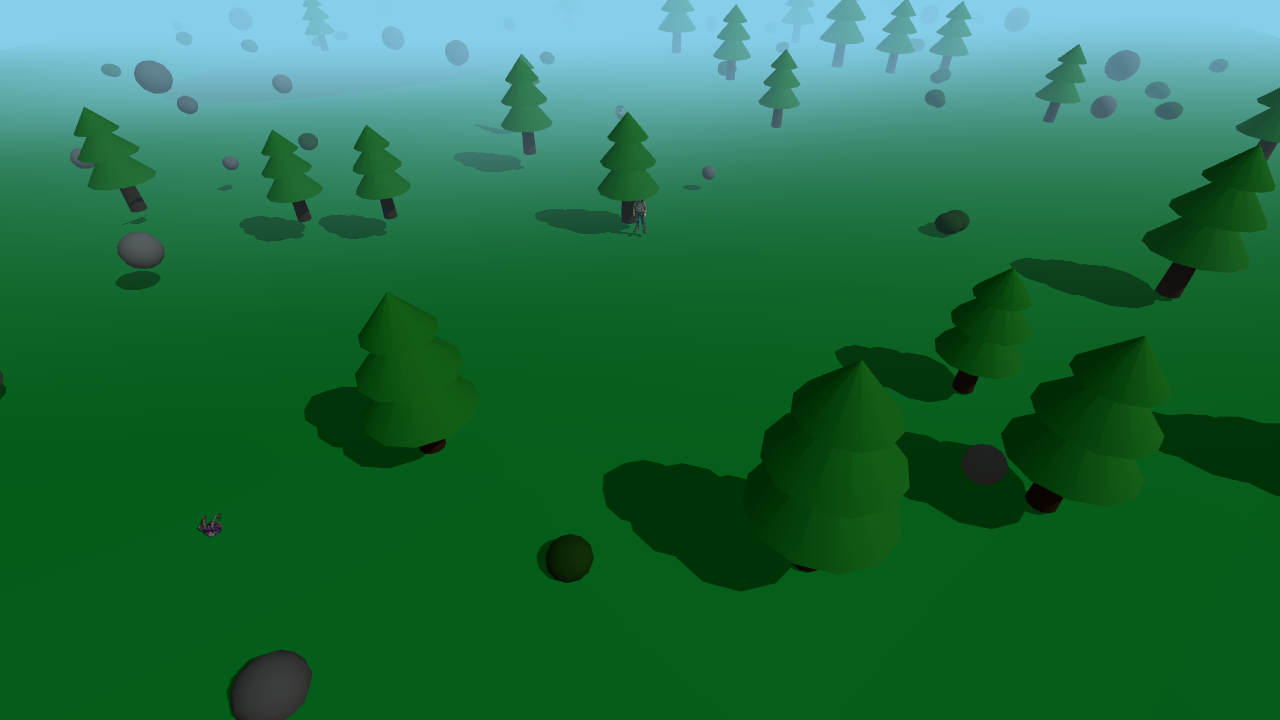
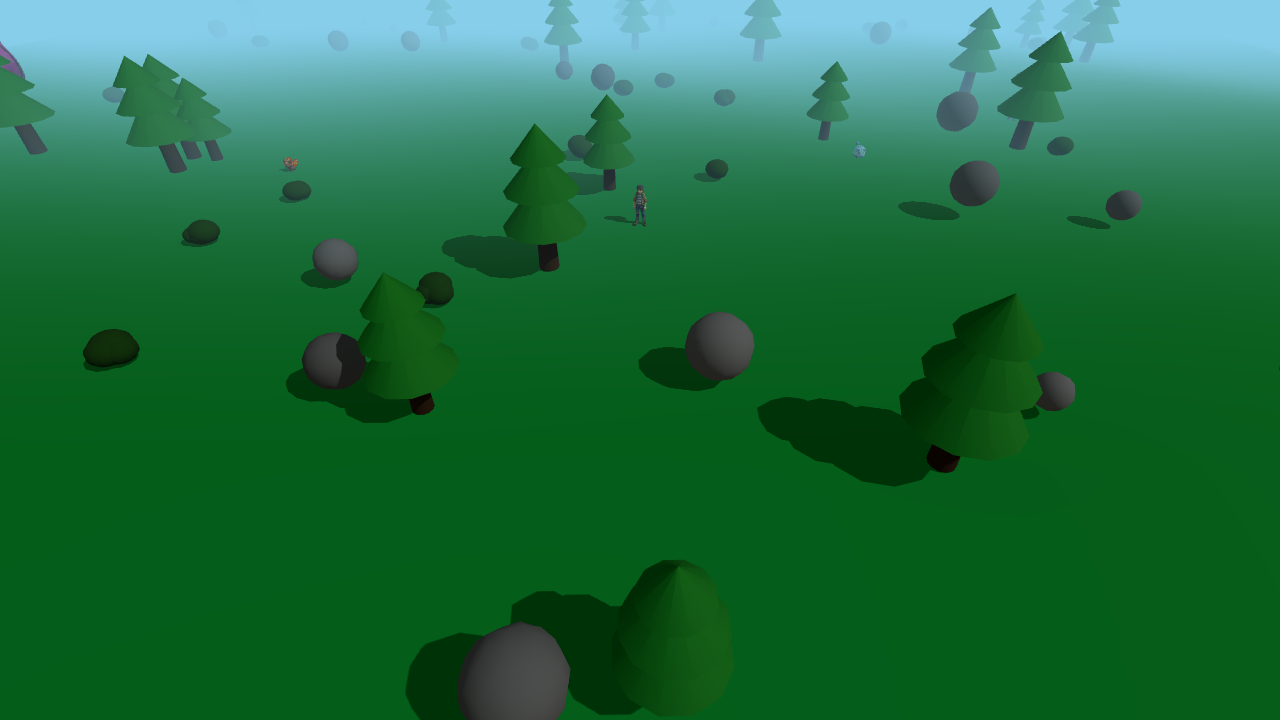
Fix wild zone terrain/object height mismatch causing floating objects

diff --git a/rpg-game.js b/rpg-game.js
@@ -761,8 +761,10 @@ export class RPGGame {
 
         for (let i = 0; i < vertices.length; i += 3) {
             const localX = vertices[i];
-            const localZ = vertices[i + 1];
-            vertices[i + 2] = heightFn(localX, localZ);
+            // After rotation.x = -PI/2, local Y becomes world -Z
+            // So we use -localY to get the world Z coordinate for consistent height calculation
+            const worldZ = -vertices[i + 1];
+            vertices[i + 2] = heightFn(localX, worldZ);
         }
 
         geometry.attributes.position.needsUpdate = true;
